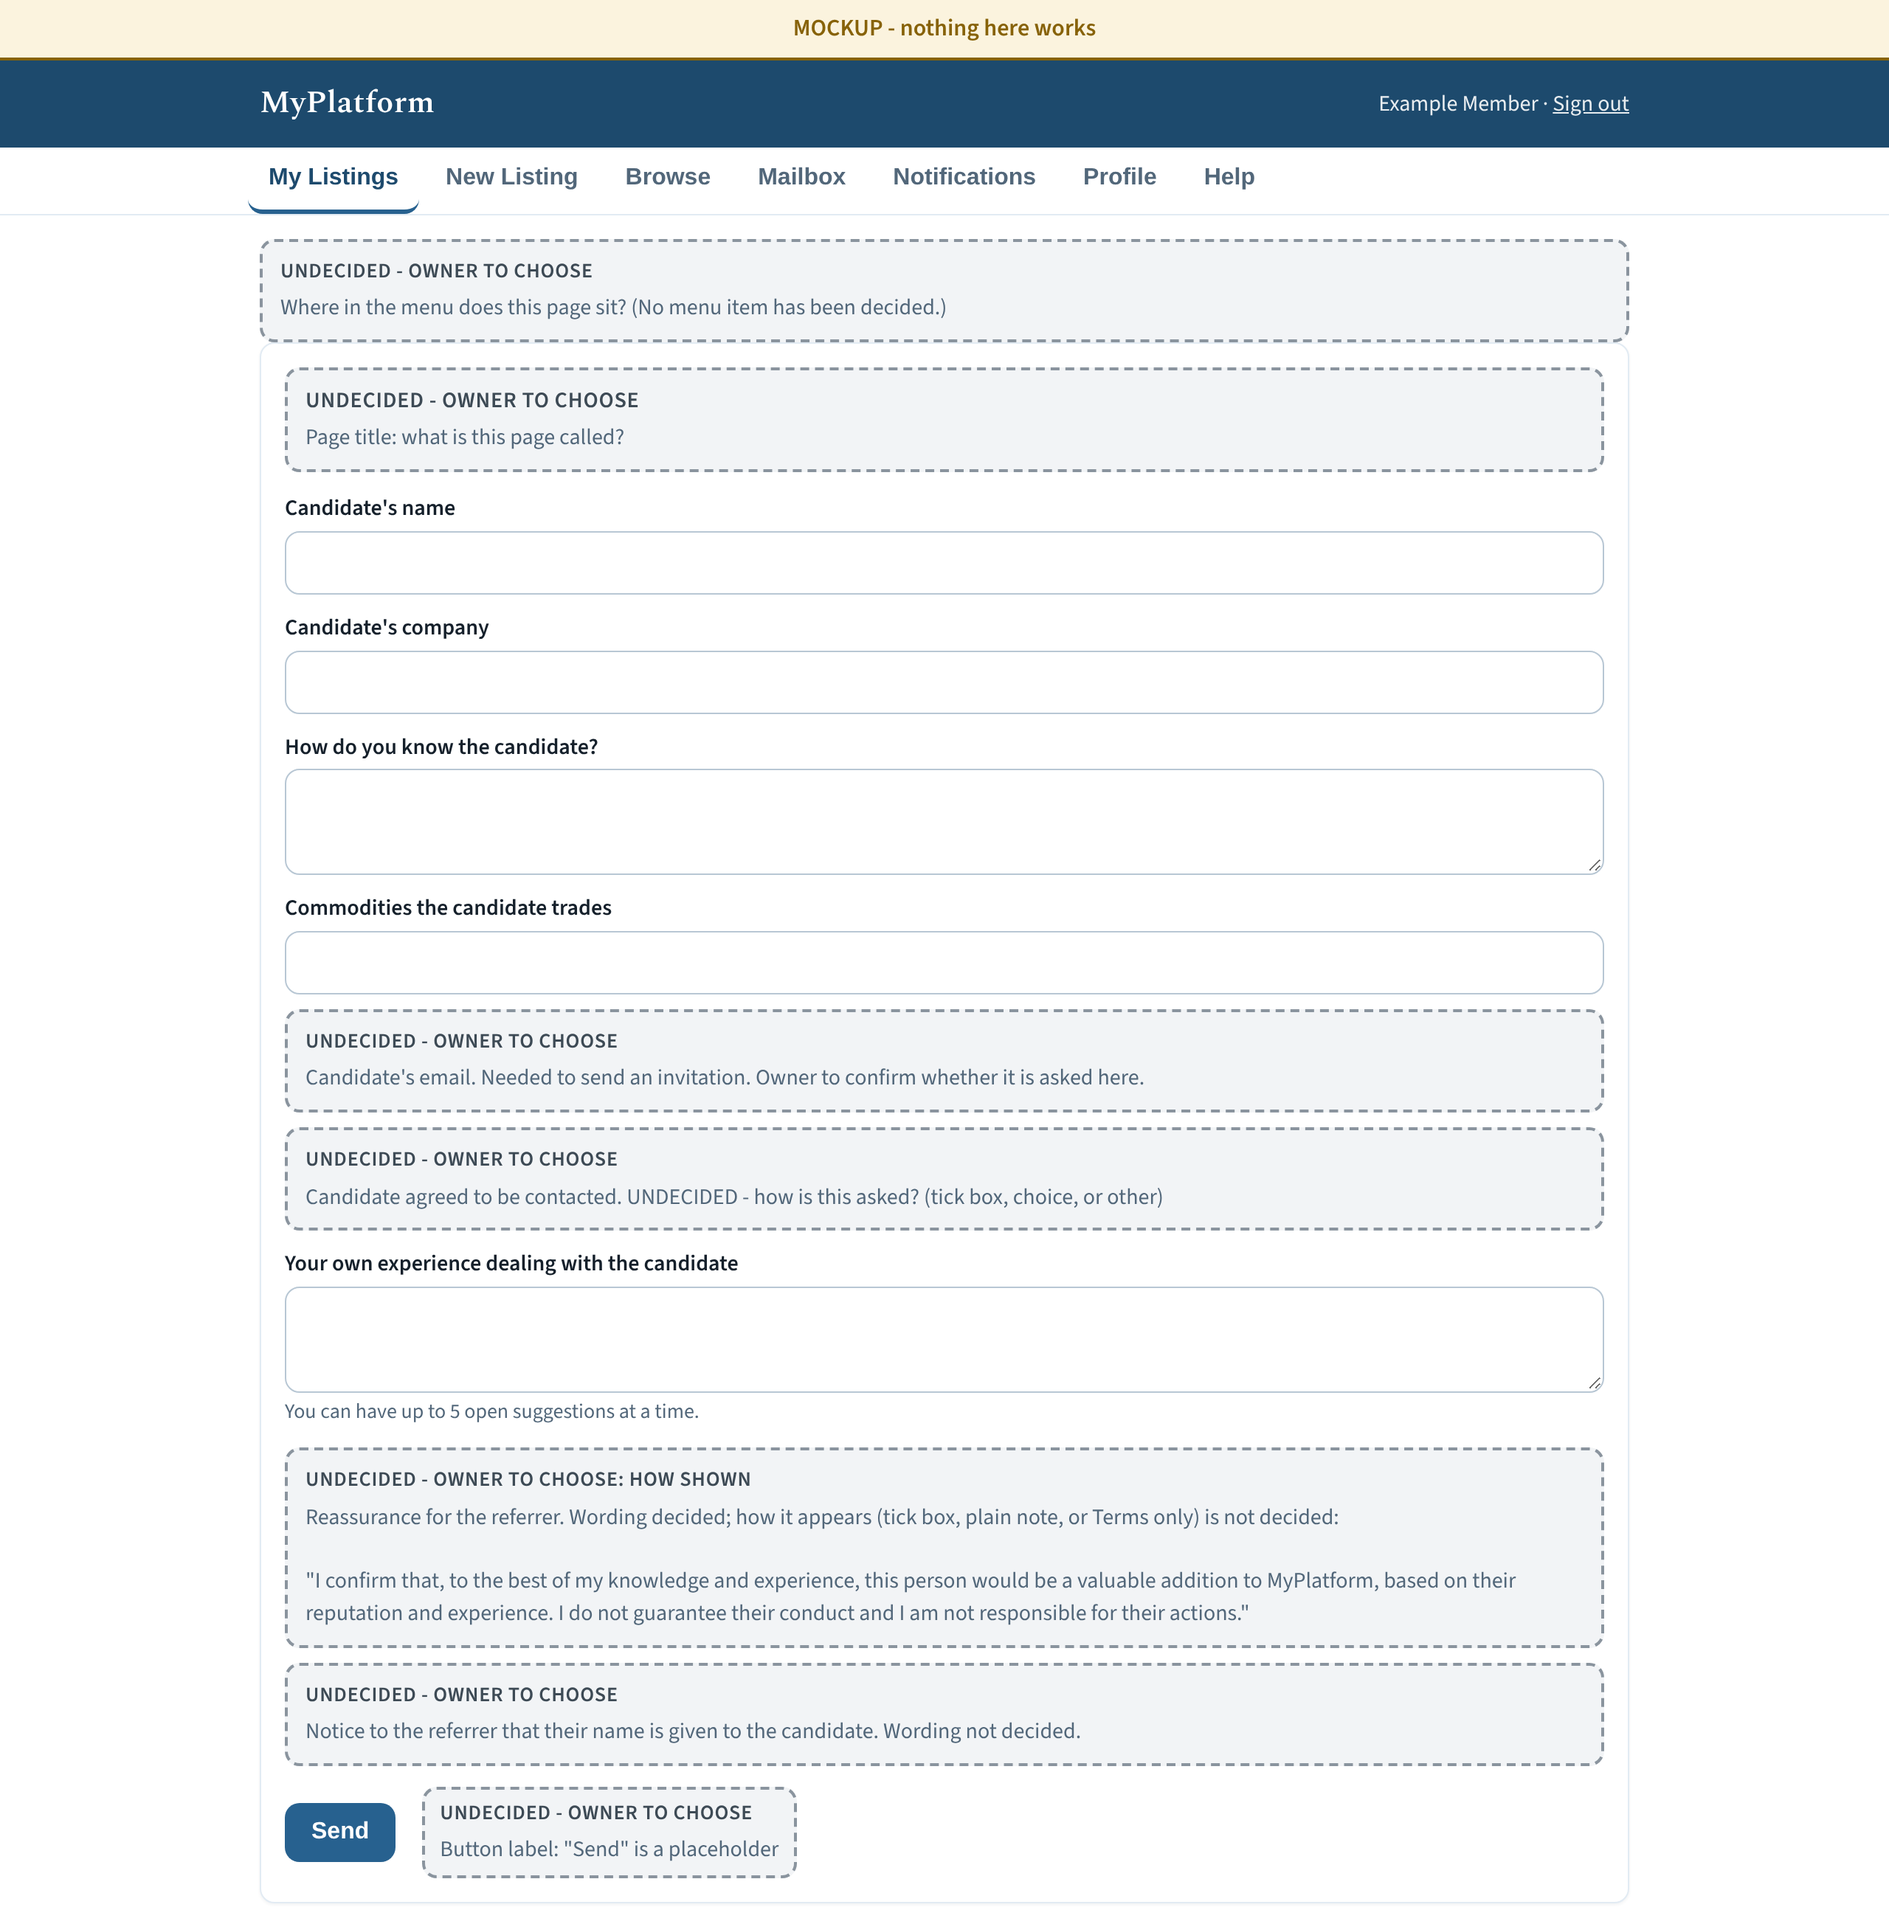
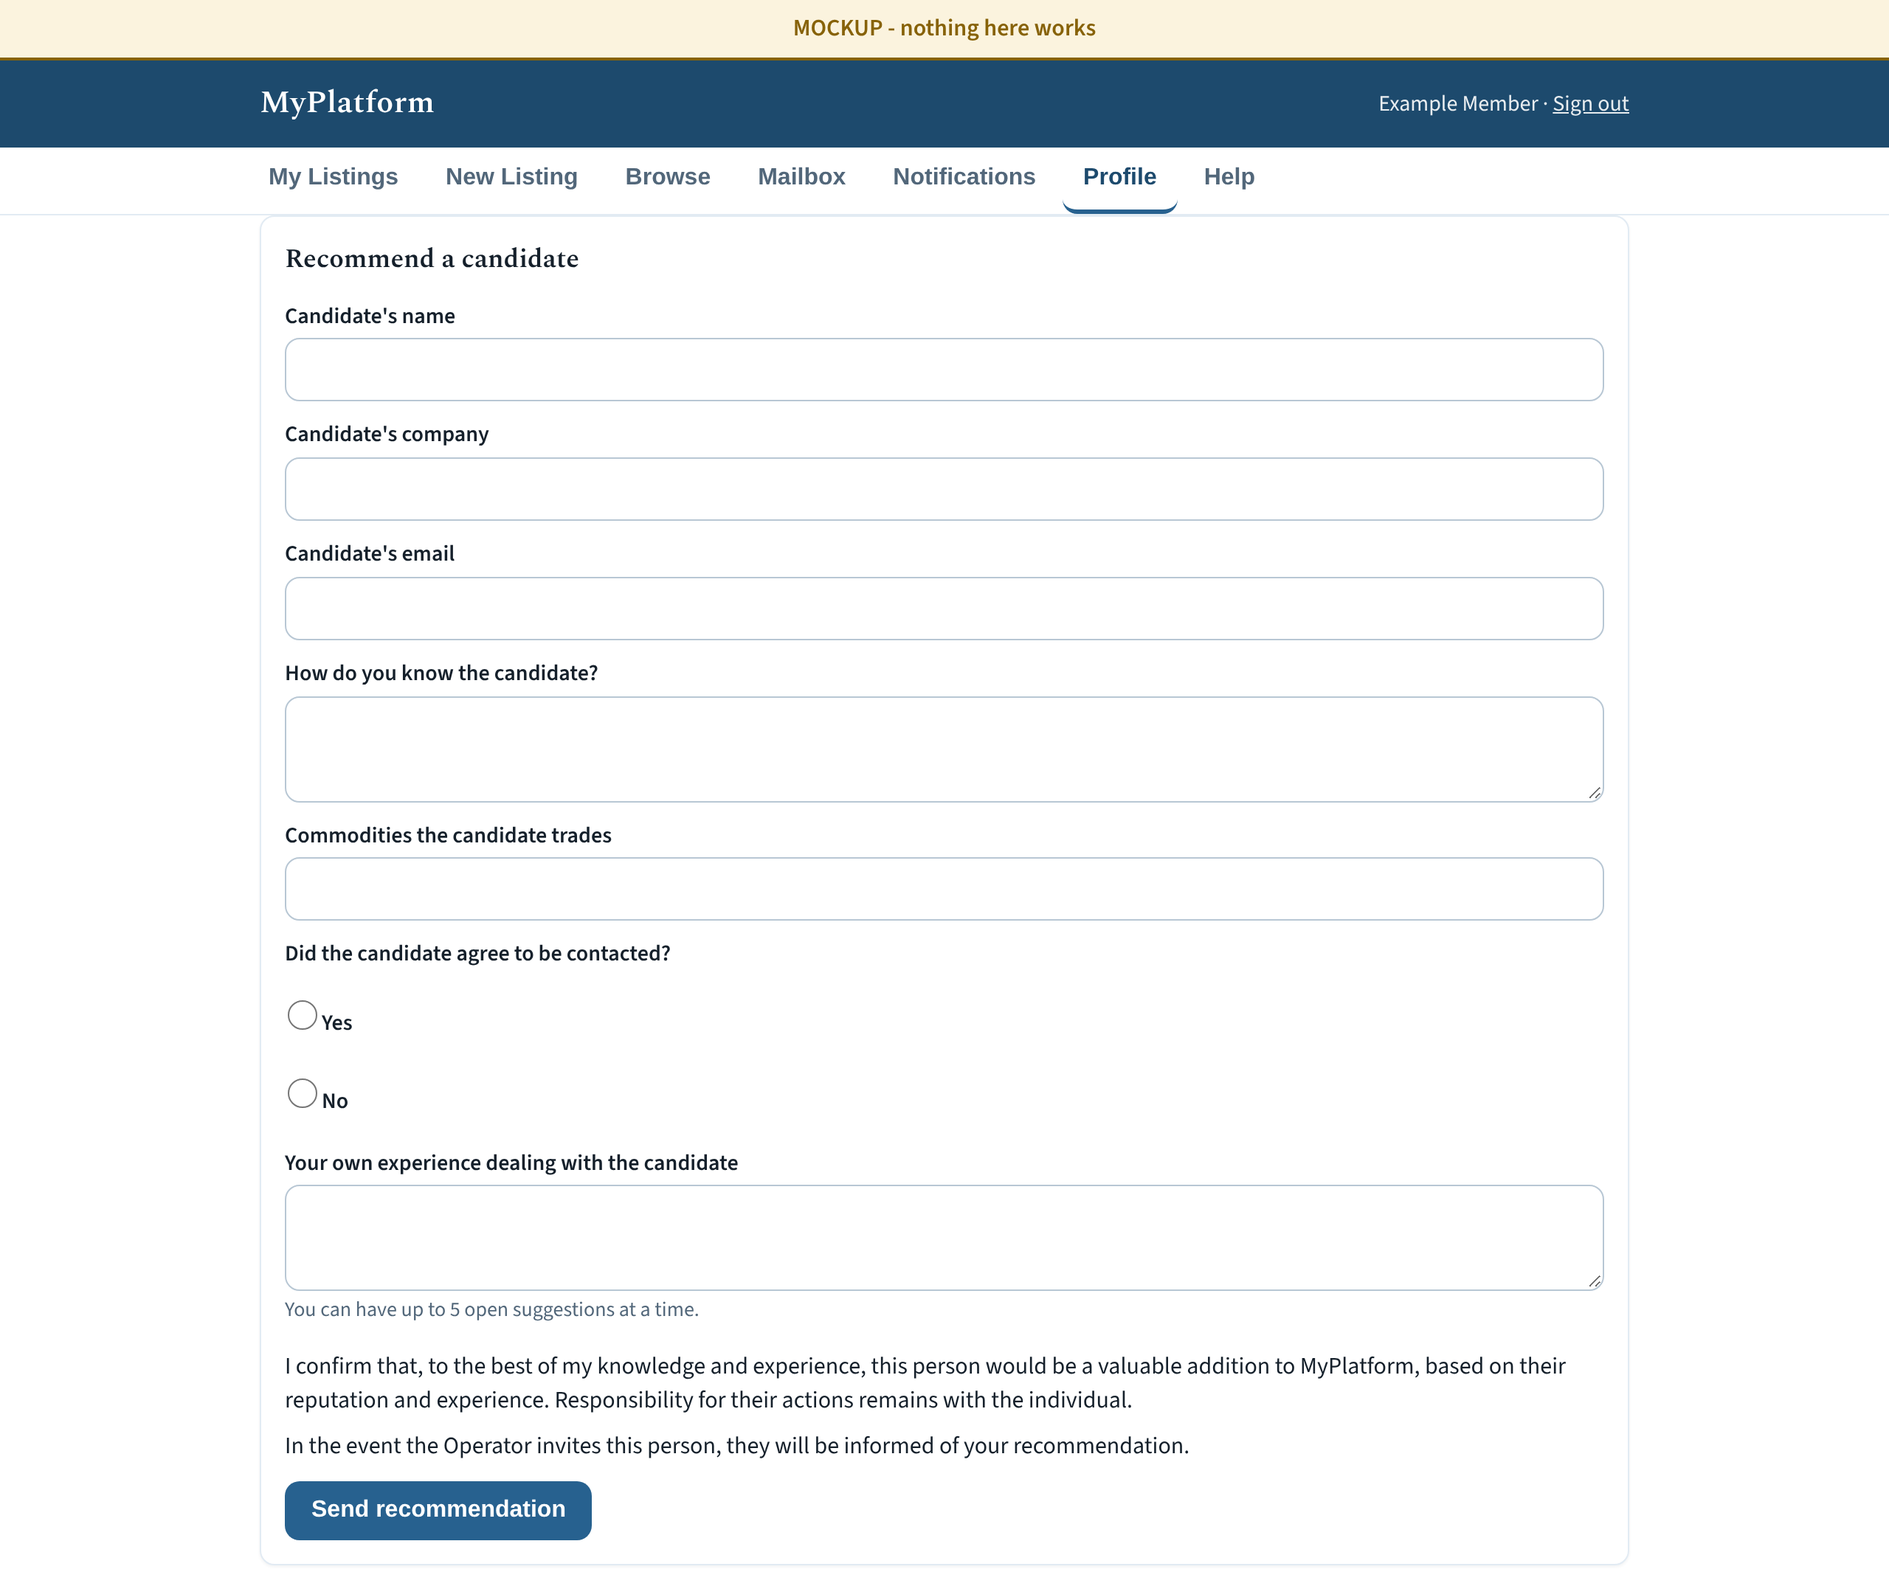
Mockup: apply owner's referral decisions - Profile button, Invitations section, Yes/No choice
Static mockup only. Adds a Profile screen with the undecided button box.
Removes the 'version A, approved by the owner' label.

Claude-Session: https://claude.ai/code/session_01DzTmTDh8iKdbJ9L343Nqru

diff --git a/mockups/referral/01-member-suggest.html b/mockups/referral/01-member-suggest.html
@@ -3,7 +3,7 @@
 <head>
 <meta charset="UTF-8">
 <meta name="viewport" content="width=device-width, initial-scale=1.0">
-<title>MOCKUP - Suggest a member (member area)</title>
+<title>MOCKUP - Recommend a candidate (member area)</title>
 <link rel="preconnect" href="https://fonts.googleapis.com">
 <link rel="preconnect" href="https://fonts.gstatic.com" crossorigin>
 <link rel="stylesheet" href="https://fonts.googleapis.com/css2?family=Spectral:wght@500;600&family=Source+Sans+3:wght@400;600&display=swap">
@@ -25,55 +25,51 @@
 
 <nav class="tabs">
   <div class="container">
-    <button class="active">My Listings</button>
+    <button>My Listings</button>
     <button>New Listing</button>
     <button>Browse</button>
     <button>Mailbox</button>
     <button>Notifications</button>
-    <button>Profile</button>
+    <button class="active">Profile</button>
     <button>Help</button>
   </div>
 </nav>
-<div class="container" style="padding-top:8px;">
-  <div class="undecided" style="margin:8px 0 0;"><strong>UNDECIDED - owner to choose</strong>Where in the menu does this page sit? (No menu item has been decided.)</div>
-</div>
 
 <main class="container">
   <div class="card">
-
-    <div class="undecided title-box"><strong>UNDECIDED - owner to choose</strong>Page title: what is this page called?</div>
+    <h2 class="mt-0">Recommend a candidate</h2>
 
     <form onsubmit="return false;">
 
       <label>Candidate's name</label>
-      <input class="mock-input" type="text" value="">
+      <input class="mock-input" type="text">
 
       <label>Candidate's company</label>
-      <input class="mock-input" type="text" value="">
+      <input class="mock-input" type="text">
+
+      <label>Candidate's email</label>
+      <input class="mock-input" type="email">
 
       <label>How do you know the candidate?</label>
       <textarea class="mock-input area"></textarea>
 
       <label>Commodities the candidate trades</label>
-      <input class="mock-input" type="text" value="">
+      <input class="mock-input" type="text">
 
-      <div class="undecided"><strong>UNDECIDED - owner to choose</strong>Candidate's email. Needed to send an invitation. Owner to confirm whether it is asked here.</div>
-
-      <div class="undecided"><strong>UNDECIDED - owner to choose</strong>Candidate agreed to be contacted. UNDECIDED - how is this asked? (tick box, choice, or other)</div>
+      <label>Did the candidate agree to be contacted?</label>
+      <div class="checkbox-row"><label><input type="radio" name="agreed"> Yes</label></div>
+      <div class="checkbox-row"><label><input type="radio" name="agreed"> No</label></div>
 
       <label>Your own experience dealing with the candidate</label>
       <textarea class="mock-input area"></textarea>
 
       <p class="field-hint">You can have up to 5 open suggestions at a time.</p>
 
-      <div class="undecided"><strong>UNDECIDED - owner to choose: how shown</strong>Reassurance for the referrer. Wording decided; how it appears (tick box, plain note, or Terms only) is not decided:<br><br>"I confirm that, to the best of my knowledge and experience, this person would be a valuable addition to MyPlatform, based on their reputation and experience. I do not guarantee their conduct and I am not responsible for their actions."</div>
+      <p style="margin:16px 0 8px;">I confirm that, to the best of my knowledge and experience, this person would be a valuable addition to MyPlatform, based on their reputation and experience. Responsibility for their actions remains with the individual.</p>
 
-      <div class="undecided"><strong>UNDECIDED - owner to choose</strong>Notice to the referrer that their name is given to the candidate. Wording not decided.</div>
+      <p style="margin:0 0 12px;">In the event the Operator invites this person, they will be informed of your recommendation.</p>
 
-      <div class="mock-row-actions" style="margin-top:14px;">
-        <button type="button" class="btn btn-primary" onclick="return false;">Send</button>
-        <span class="undecided inline"><strong>UNDECIDED - owner to choose</strong>Button label: "Send" is a placeholder</span>
-      </div>
+      <button type="button" class="btn btn-primary" onclick="return false;">Send recommendation</button>
 
     </form>
   </div>

diff --git a/mockups/referral/02-operator-suggestions.html b/mockups/referral/02-operator-suggestions.html
@@ -3,7 +3,7 @@
 <head>
 <meta charset="UTF-8">
 <meta name="viewport" content="width=device-width, initial-scale=1.0">
-<title>MOCKUP - Member suggestions (Operator console)</title>
+<title>MOCKUP - Invitations with candidate recommendations (Operator console)</title>
 <link rel="preconnect" href="https://fonts.googleapis.com">
 <link rel="preconnect" href="https://fonts.gstatic.com" crossorigin>
 <link rel="stylesheet" href="https://fonts.googleapis.com/css2?family=Spectral:wght@500;600&family=Source+Sans+3:wght@400;600&display=swap">
@@ -28,7 +28,7 @@
     <button>Overview</button>
     <button>Approvals</button>
     <button>All Listings</button>
-    <button>Invitations</button>
+    <button class="active">Invitations</button>
     <button>Users</button>
     <button>Commodities</button>
     <button>Mailbox</button>
@@ -40,16 +40,12 @@
     <button>Help</button>
   </div>
 </nav>
-<div class="container" style="padding-top:8px;">
-  <div class="undecided" style="margin:8px 0 0;"><strong>UNDECIDED - owner to choose</strong>Where in the menu does this list sit? (No menu item has been decided.)</div>
-</div>
 
 <main class="container">
   <div class="card">
+    <h2 class="mt-0">Candidate recommendations</h2>
 
-    <div class="undecided title-box"><strong>UNDECIDED - owner to choose</strong>Name of this list: what is it called?</div>
-
-    <div class="table-wrap" style="overflow-x:auto;">
+    <div style="overflow-x:auto;">
       <table class="data-table">
         <thead>
           <tr>
@@ -68,7 +64,7 @@
             <td data-label="Company">Example Company A</td>
             <td data-label="Commodities">Example commodity 1</td>
             <td data-label="Date">2026-11-06</td>
-            <td><button class="btn btn-secondary btn-small" onclick="return false;">Invite</button></td>
+            <td><div class="mock-row-actions"><button class="btn btn-secondary btn-small" onclick="return false;">Invite</button><button class="btn btn-secondary btn-small" onclick="return false;">Decline</button></div></td>
           </tr>
           <tr>
             <td data-label="Suggested by">Example Member</td>
@@ -76,14 +72,13 @@
             <td data-label="Company">Example Company B</td>
             <td data-label="Commodities">Example commodity 2</td>
             <td data-label="Date">2026-11-07</td>
-            <td><button class="btn btn-secondary btn-small" onclick="return false;">Invite</button></td>
+            <td><div class="mock-row-actions"><button class="btn btn-secondary btn-small" onclick="return false;">Invite</button><button class="btn btn-secondary btn-small" onclick="return false;">Decline</button></div></td>
           </tr>
         </tbody>
       </table>
     </div>
 
-    <div class="undecided"><strong>UNDECIDED - owner to choose</strong>Decline button: decline? (No decline button has been decided.)</div>
-
+    <div class="undecided"><strong>UNDECIDED - owner to choose</strong>Decline: what does it do, and is the referrer told? Not decided.</div>
   </div>
 </main>
 </body>

diff --git a/mockups/referral/03-operator-invite.html b/mockups/referral/03-operator-invite.html
@@ -28,7 +28,7 @@
     <button>Overview</button>
     <button>Approvals</button>
     <button>All Listings</button>
-    <button>Invitations</button>
+    <button class="active">Invitations</button>
     <button>Users</button>
     <button>Commodities</button>
     <button>Mailbox</button>
@@ -40,26 +40,24 @@
     <button>Help</button>
   </div>
 </nav>
-<div class="container" style="padding-top:8px;">
-  <div class="undecided" style="margin:8px 0 0;"><strong>UNDECIDED - owner to choose</strong>Page title: what is this page called?</div>
-</div>
 
 <main class="container">
   <div class="card">
 
-    <div class="undecided title-box"><strong>UNDECIDED - owner to choose</strong>Page title for this invitation page (not decided).</div>
+    <div class="undecided title-box"><strong>UNDECIDED - owner to choose</strong>Page title for this invitation page: not decided.</div>
 
     <form onsubmit="return false;">
-
-      <div class="undecided"><strong>UNDECIDED - owner to choose</strong>Candidate email. Owner to confirm whether it is asked here or taken from the suggestion.</div>
 
       <label>Candidate name</label>
       <input class="mock-input" type="text" value="Example Candidate">
 
+      <label>Candidate email</label>
+      <input class="mock-input" type="email" value="example.candidate@example.com">
+
       <label>Referrer name</label>
       <input class="mock-input" type="text" value="Example Member">
 
-      <label>Message preview (version A, approved by the owner)</label>
+      <label>Message preview</label>
       <div class="approved-text">Dear Example Candidate,
 
 Example Member has recommended you as a prospective member of MyPlatform, a private, invitation-only marketplace for physical commodities. We are pleased to invite you to join.

diff --git a/mockups/referral/04-member-profile.html b/mockups/referral/04-member-profile.html
@@ -1,0 +1,47 @@
+<!DOCTYPE html>
+<html lang="en">
+<head>
+<meta charset="UTF-8">
+<meta name="viewport" content="width=device-width, initial-scale=1.0">
+<title>MOCKUP - Profile with recommend button (member area)</title>
+<link rel="preconnect" href="https://fonts.googleapis.com">
+<link rel="preconnect" href="https://fonts.gstatic.com" crossorigin>
+<link rel="stylesheet" href="https://fonts.googleapis.com/css2?family=Spectral:wght@500;600&family=Source+Sans+3:wght@400;600&display=swap">
+<link rel="stylesheet" href="../../css/styles.css">
+<link rel="stylesheet" href="mockup.css">
+</head>
+<body>
+<div class="mock-banner">MOCKUP - nothing here works</div>
+
+<header class="site-header">
+  <div class="container">
+    <h1>MyPlatform</h1>
+    <div class="user-info">
+      <span>Example Member</span> ·
+      <a href="#" style="color:#fff;" onclick="return false;">Sign out</a>
+    </div>
+  </div>
+</header>
+
+<nav class="tabs">
+  <div class="container">
+    <button>My Listings</button>
+    <button>New Listing</button>
+    <button>Browse</button>
+    <button>Mailbox</button>
+    <button>Notifications</button>
+    <button class="active">Profile</button>
+    <button>Help</button>
+  </div>
+</nav>
+
+<main class="container">
+  <div class="card">
+    <h2 class="mt-0">Profile</h2>
+    <p class="text-muted">Profile contents are not part of this mockup.</p>
+
+    <div class="undecided"><strong>UNDECIDED - owner to choose</strong>Button on this page that opens "Recommend a candidate". Its label is not decided, and its position on the page is not decided. No new menu item is added.</div>
+  </div>
+</main>
+</body>
+</html>
